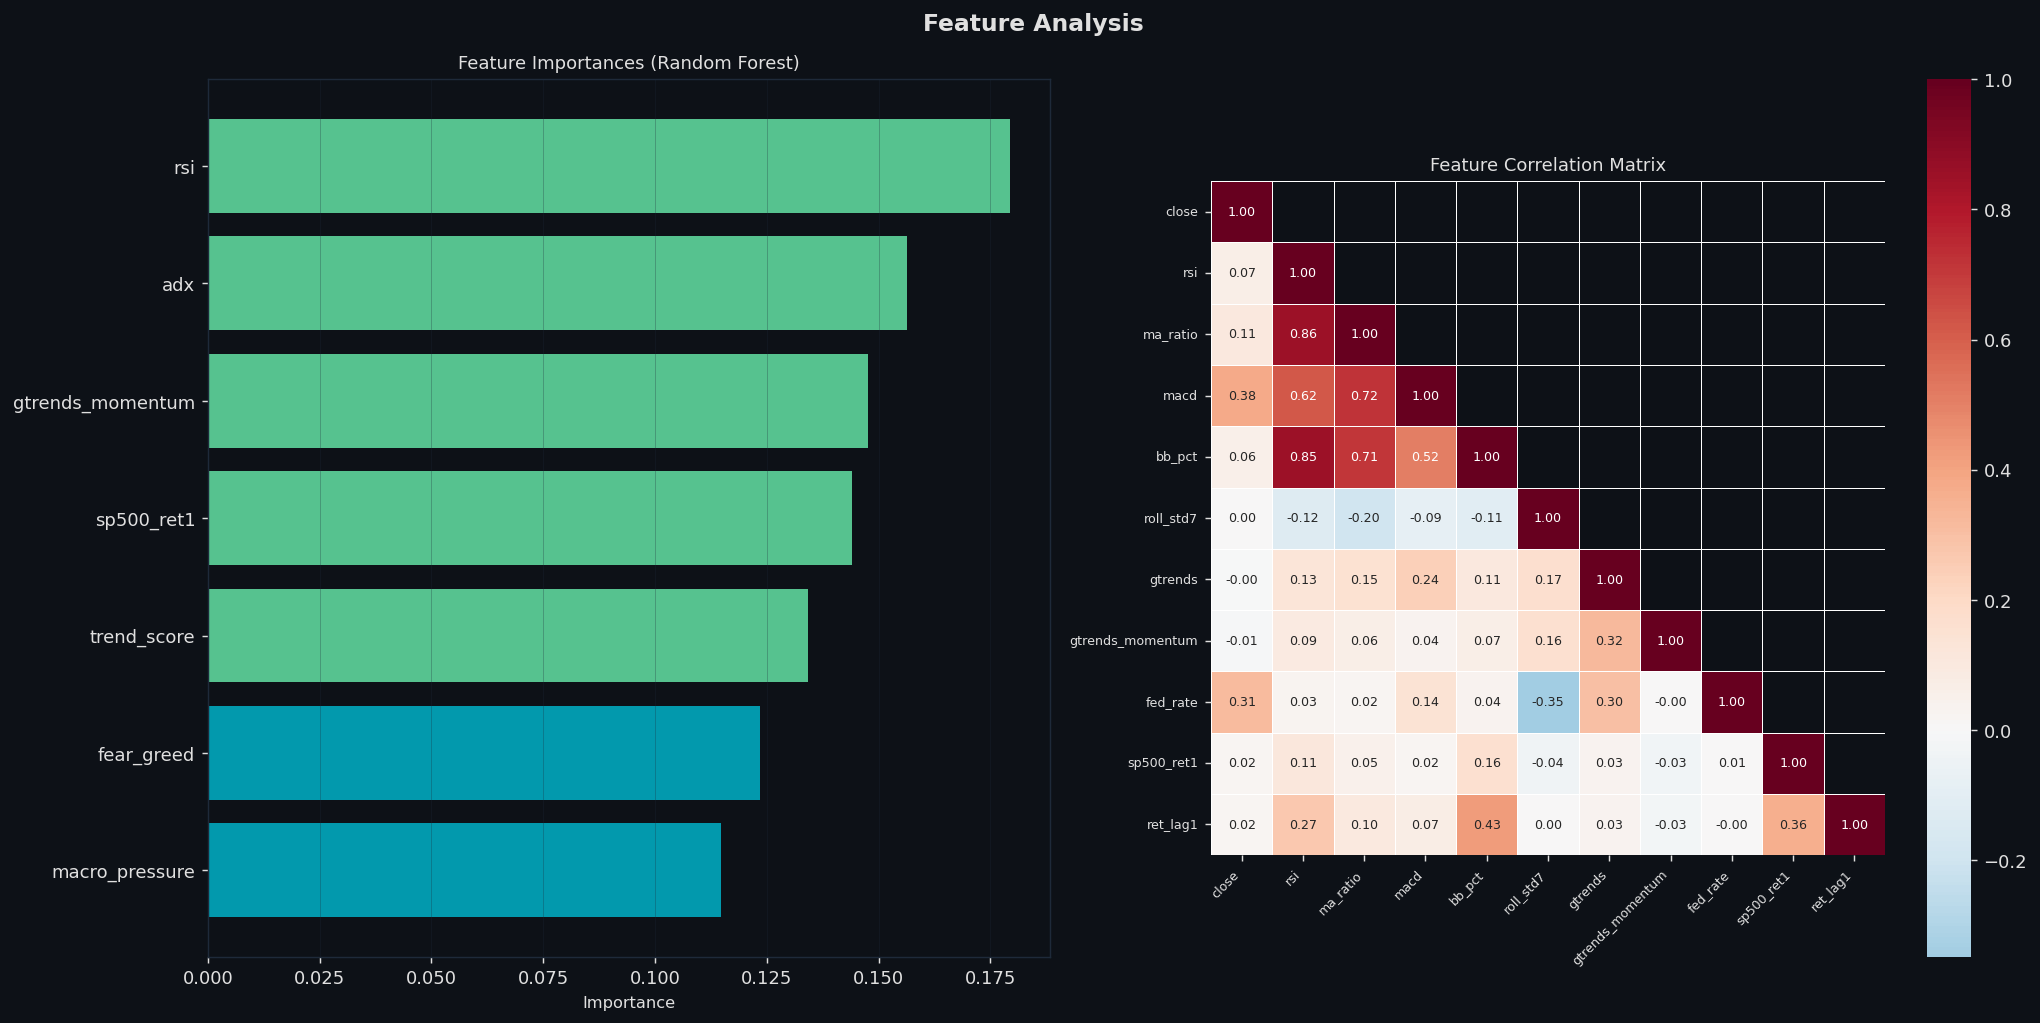
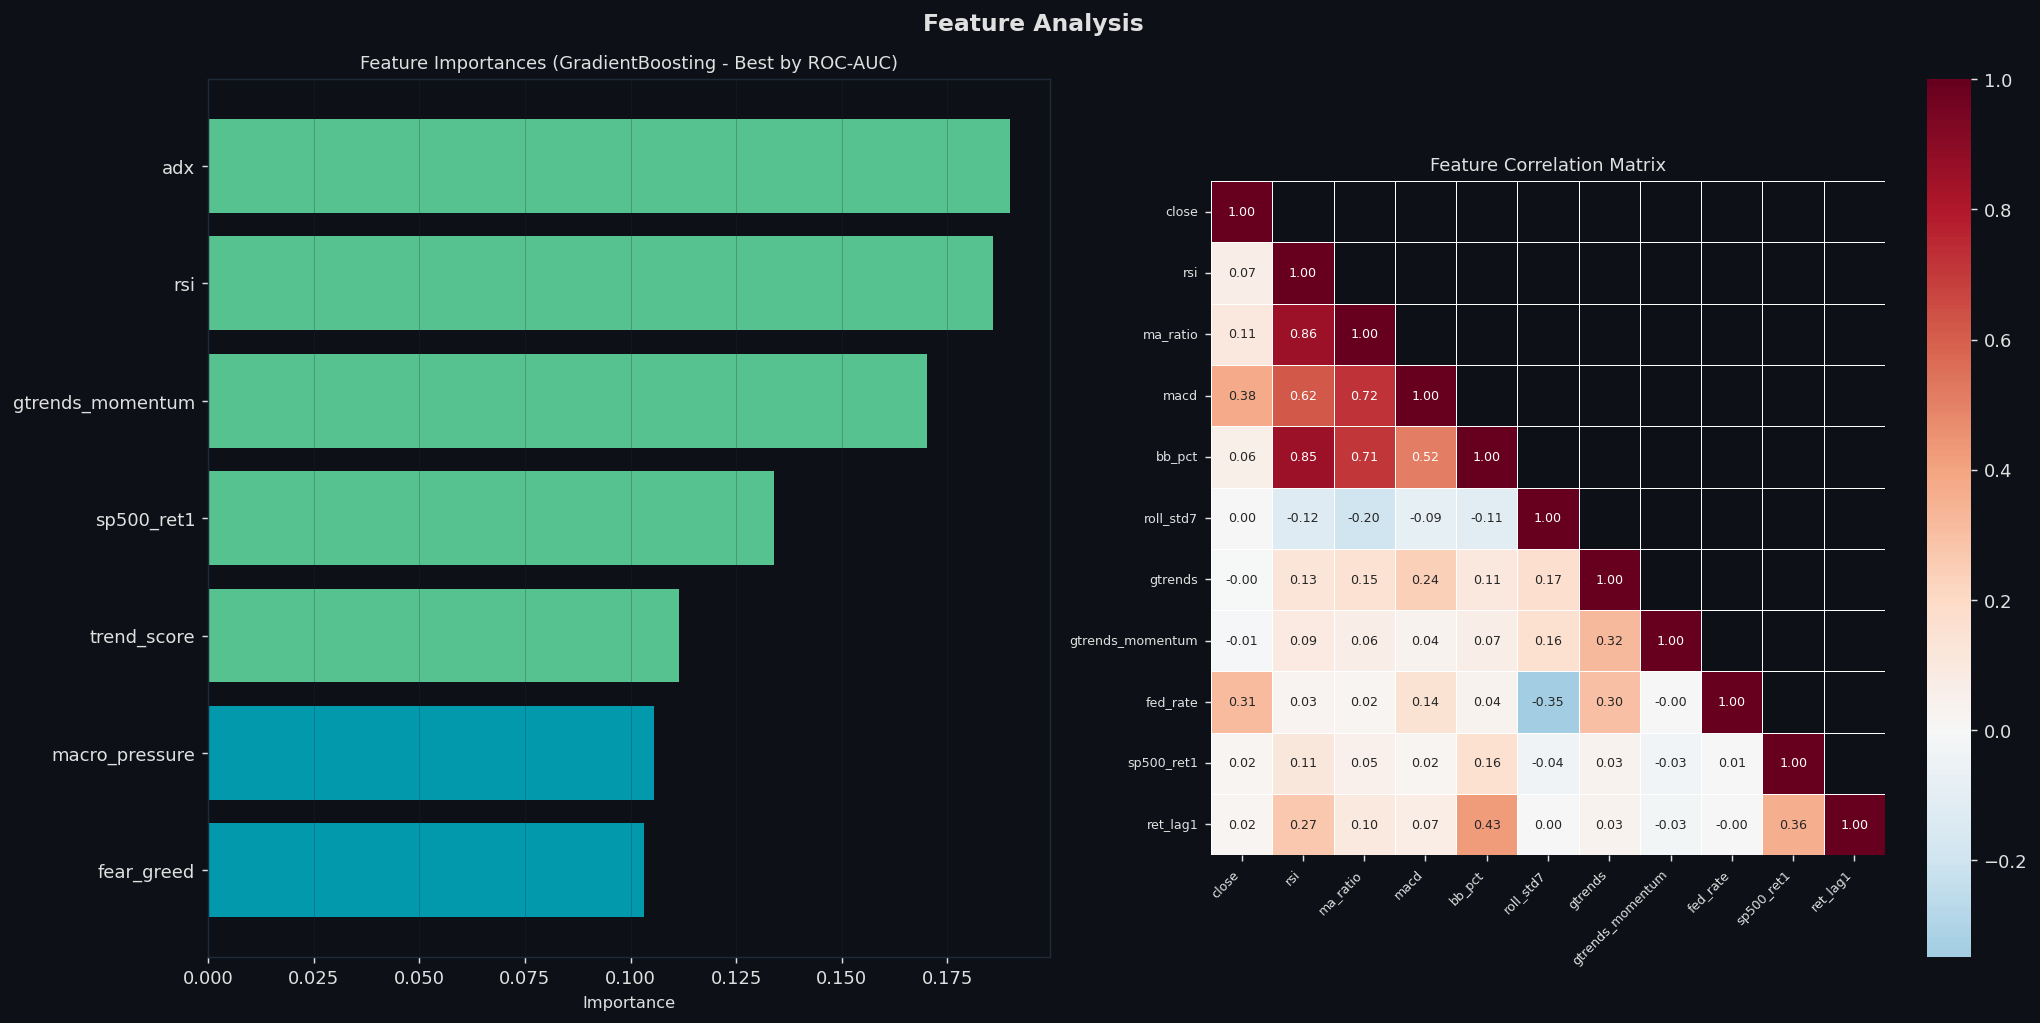
feat: Add data labels to eval charts and dynamic feature importance

diff --git a/btc_signal_pipeline.py b/btc_signal_pipeline.py
@@ -873,7 +873,7 @@ def predict_next_day(model, scaler, inp_type,
 # ─────────────────────────────────────────────────────────────────────────────
 # SECTION 12 — Plotting
 # ─────────────────────────────────────────────────────────────────────────────
-def plot_all(df, metrics_df, backtests, bt_rf, imp_df, features, output_dir="."):
+def plot_all(df, metrics_df, backtests, bt_rf, imp_df, features, models, output_dir="."):
     """Generate all visualisation plots and save to files."""
 
     BG      = "#0d1117"
@@ -986,8 +986,25 @@ def plot_all(df, metrics_df, backtests, bt_rf, imp_df, features, output_dir=".")
     for i, (ax, col, label, thresh) in enumerate(
             zip(axes.flat, metric_cols, metric_labels, threshold_lines)):
         ax.set_facecolor(BG)
-        ax.bar(x - w/2, val_df_[col].values,  w, label="Validation", color=CYAN,  alpha=0.75)
-        ax.bar(x + w/2, test_df_[col].values, w, label="Test",       color=ORNG, alpha=0.75)
+        bars_val = ax.bar(x - w/2, val_df_[col].values,  w, label="Validation", color=CYAN,  alpha=0.75)
+        bars_test = ax.bar(x + w/2, test_df_[col].values, w, label="Test",       color=ORNG, alpha=0.75)
+        
+        # Add data labels
+        for bar in bars_val:
+            height = bar.get_height()
+            ax.annotate(f"{height:.2f}",
+                        xy=(bar.get_x() + bar.get_width() / 2, height),
+                        xytext=(0, 3),  # 3 points vertical offset
+                        textcoords="offset points",
+                        ha='center', va='bottom', fontsize=5, color=TEXT)
+        for bar in bars_test:
+            height = bar.get_height()
+            ax.annotate(f"{height:.2f}",
+                        xy=(bar.get_x() + bar.get_width() / 2, height),
+                        xytext=(0, 3),  # 3 points vertical offset
+                        textcoords="offset points",
+                        ha='center', va='bottom', fontsize=5, color=TEXT)
+
         if thresh:
             ax.axhline(thresh, color=GREEN, lw=1.2, ls="--",
                        label=f"Target ({thresh})")
@@ -1101,15 +1118,36 @@ def plot_all(df, metrics_df, backtests, bt_rf, imp_df, features, output_dir=".")
     fig, axes = plt.subplots(1, 2, figsize=(16, 8), facecolor=BG)
     fig.suptitle("Feature Analysis", color=TEXT, fontsize=13, fontweight="bold")
 
-    # Left: Feature importance (RF)
+    # Left: Feature importance (Best Model by ROC-AUC)
     ax_fi = axes[0]
     ax_fi.set_facecolor(BG)
-    top_n  = imp_df.head(15)
-    colors = [GREEN if i < 5 else CYAN if i < 10 else ORNG
-              for i in range(len(top_n))]
-    ax_fi.barh(top_n.index[::-1], top_n.values[::-1], color=colors[::-1], alpha=0.8)
-    ax_fi.set_title("Feature Importances (Random Forest)",
-                    color=TEXT, fontsize=10)
+    
+    # 1. Select the Best Model based on Highest ROC-AUC in the Test set
+    test_metrics = metrics_df[metrics_df["Split"] == "Test"].copy()
+    
+    # Filter out models that don't have feature importances (e.g., LogisticRegression, NeuralNetwork)
+    # We check if the model object in the 'models' dictionary has 'feature_importances_'
+    tree_models = [name for name, (m_type, m_obj) in models.items() 
+                   if hasattr(m_obj, "feature_importances_")]
+    
+    if tree_models:
+        best_tree_name = test_metrics[test_metrics["Model"].isin(tree_models)].sort_values("ROC_AUC", ascending=False).iloc[0]["Model"]
+        best_tree_obj = models[best_tree_name][1]
+        
+        imp_series = pd.Series(best_tree_obj.feature_importances_, index=features)
+        imp_df_best = imp_series.sort_values(ascending=False)
+        
+        top_n  = imp_df_best.head(15)
+        colors = [GREEN if i < 5 else CYAN if i < 10 else ORNG
+                  for i in range(len(top_n))]
+        ax_fi.barh(top_n.index[::-1], top_n.values[::-1], color=colors[::-1], alpha=0.8)
+        ax_fi.set_title(f"Feature Importances ({best_tree_name} - Best by ROC-AUC)",
+                        color=TEXT, fontsize=10)
+    else:
+        # Fallback if no tree models are present
+        ax_fi.text(0.5, 0.5, "No Tree Models Available for Feature Importance", ha='center', va='center', color=TEXT)
+        ax_fi.set_title("Feature Importances", color=TEXT, fontsize=10)
+        
     ax_fi.set_xlabel("Importance", fontsize=9)
     ax_fi.grid(True, axis="x", alpha=0.3)
 
@@ -1233,8 +1271,8 @@ def main():
 
     # ── STEP 9: Plot Everything ───────────────────────────────────────────────
     print("\n── STEP 9: Generate Plots ───────────────────────────────────────────")
-    plot_all(df, metrics_df, backtests, bt_rf, imp_df,
-             features_sel, output_dir=OUTPUT_DIR)
+    plot_all(df, metrics_df, backtests, bt_rf, imp_df, features_sel, models,
+             output_dir=OUTPUT_DIR)
 
     # ── FINAL SUMMARY ────────────────────────────────────────────────────────
     print("\n" + "="*70)
